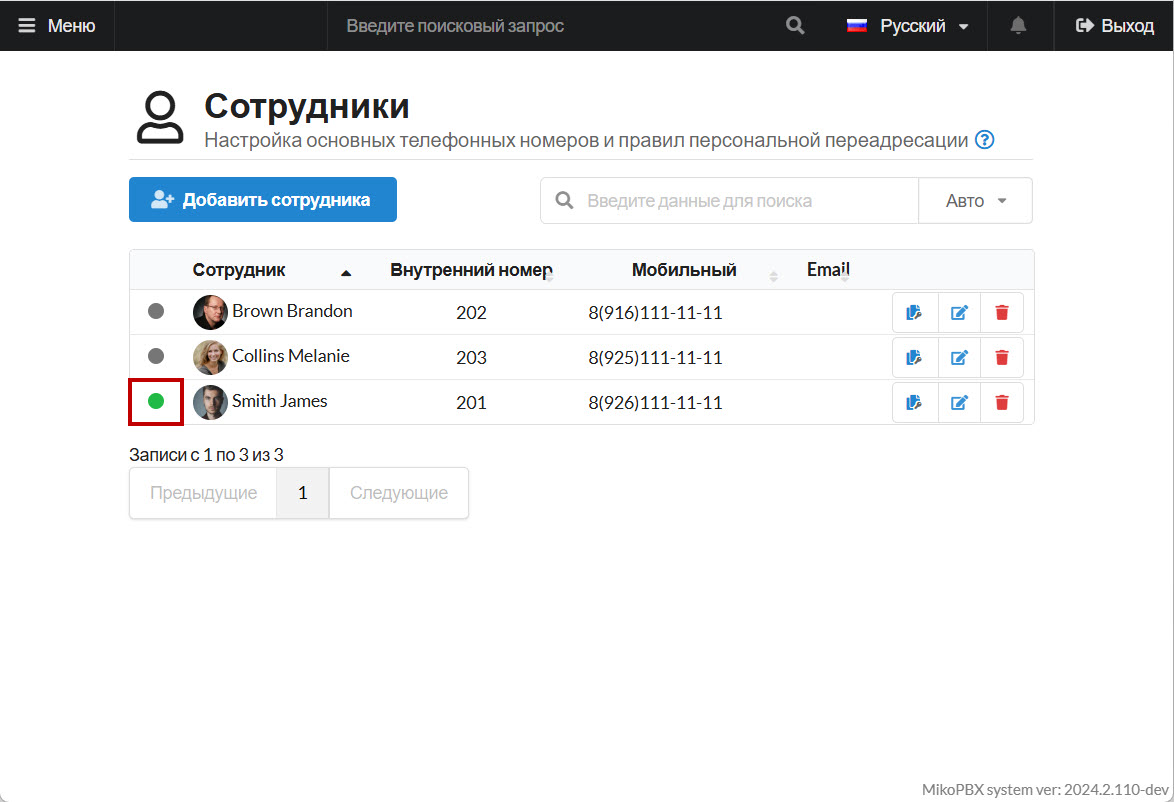
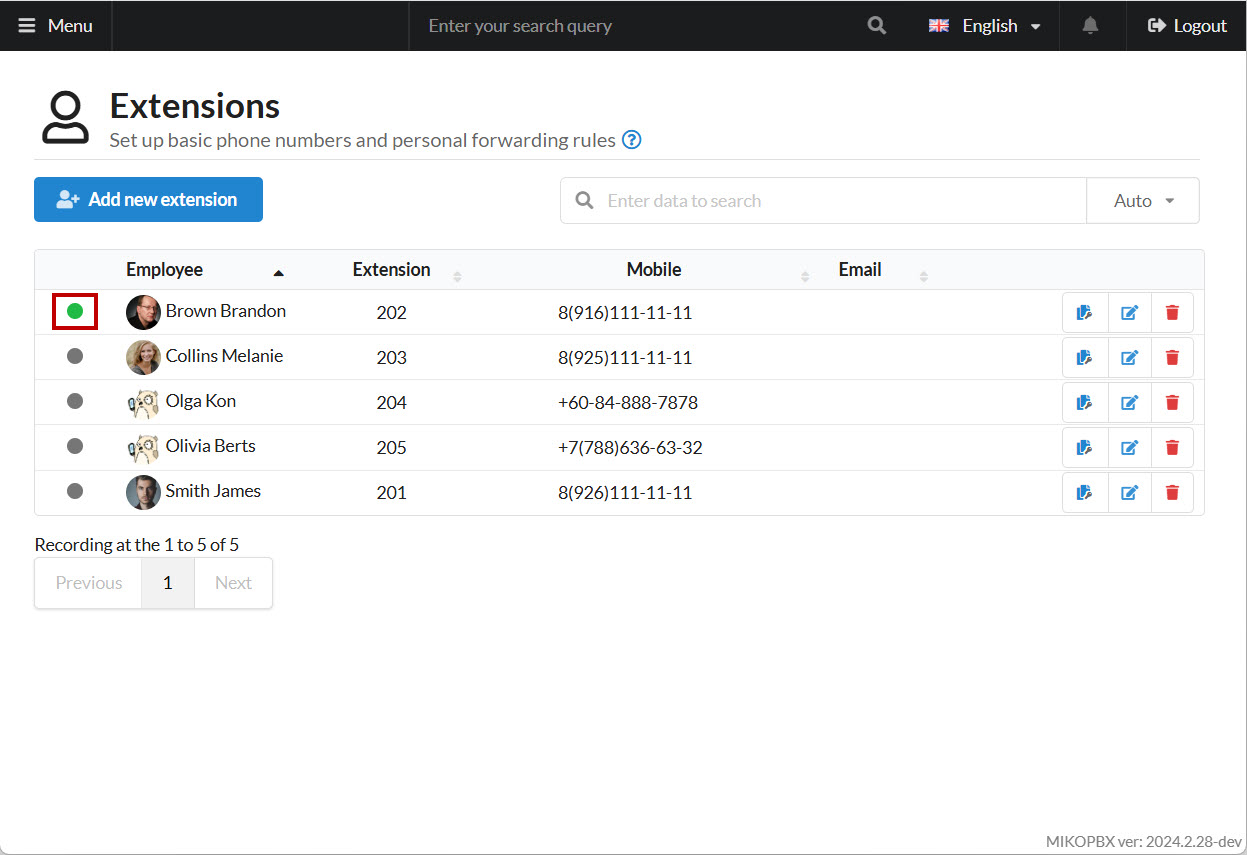
GITBOOK-778: No subject

diff --git a/faq/softphones/3cx-softphone.md b/faq/softphones/3cx-softphone.md
@@ -1,0 +1,41 @@
+---
+description: Инструкции по подключению софтфона 3CX Softphone
+---
+
+# 3CX Softphone
+
+**3CX** — это SIP софтфон, предназначенный для бизнеса, который обеспечивает голосовые и видеозвонки, а также поддержку многоканальных звонков и конференц-связи.&#x20;
+
+<figure><img src="../../.gitbook/assets/3cxSoftPhone.jpg" alt=""><figcaption><p>Интерфейс софтфона 3CX</p></figcaption></figure>
+
+1. Скачайте и установите софтфон с оффициального сайта ([ссылка](https://www.3cx.com/voip/softphone/)).
+
+<figure><img src="../../.gitbook/assets/mainpage.jpg" alt=""><figcaption><p>Стартовое окно</p></figcaption></figure>
+
+2. Добавьте новый SIP-аккаунт; для этого нажмите "**New**":
+
+<figure><img src="../../.gitbook/assets/newConnection.jpg" alt=""><figcaption><p>Добавление нового SIP-аккаунта</p></figcaption></figure>
+
+3. Далее укажите все необходимые данные для SIP-подключения:
+
+* **Account name** - произвольное
+* **CallerID** - имя сотрудника
+* **Extension** - внутренний номер сотрудника (Из карточки сотрудника)
+* **ID** - внутренний номер сотрудника (Из карточки сотрудника)
+* **Password** - пароль для SIP-подключения (Из карточки сотрудника)
+
+<figure><img src="../../.gitbook/assets/credentials.jpg" alt=""><figcaption><p>Данные для подключения</p></figcaption></figure>
+
+4. В разделе "**My location**", укажите IP-адрес Вашей MikoPBX. Если она расположена в одной локальной сети с софтфоном - выберите вариант "**I am in the office - local IP**", если вы хотите подключиться с помощью внешнего IP-адреса, выберите "**I am out of the office - external IP**"
+
+После заполнения этих данных, нажмите "**OK**".&#x20;
+
+<figure><img src="../../.gitbook/assets/myLocation.jpg" alt=""><figcaption><p>Раздел "My location"</p></figcaption></figure>
+
+5. Выберите добавленую учетную запись и нажмите "**OK**":
+
+<figure><img src="../../.gitbook/assets/connection.jpg" alt=""><figcaption><p>Выбор учетной записи</p></figcaption></figure>
+
+Произойдет соединение. Вы можете проверить его успешность по индикатору подключения сотрудника:
+
+<figure><img src="../../.gitbook/assets/successfulConnection.jpg" alt=""><figcaption><p>Успешное подключение!</p></figcaption></figure>

diff --git a/faq/softphones/groundwire.md b/faq/softphones/groundwire.md
@@ -42,7 +42,7 @@ description: Инструкции по подключению софтфона G
 
 Сохраните параметры. Произойдет соединение. По индикатору в разделе "Сотрудники" в MikoPBX, Вы можете убедиться, что оно было успешным.
 
-<figure><img src="../../.gitbook/assets/successfulConnection.jpg" alt=""><figcaption><p>Успешное SIP-подключение</p></figcaption></figure>
+<figure><img src="../../.gitbook/assets/successfulConnection (1).jpg" alt=""><figcaption><p>Успешное SIP-подключение</p></figcaption></figure>
 
 ## Настройка отслеживания статусов сотрудников
 

diff --git a/SUMMARY.md b/SUMMARY.md
@@ -198,6 +198,7 @@
   * [Telephone(MacOS)](faq/softphones/telephone-macos.md)
   * [Настройка WebRTC клиента SIPML5](faq/softphones/configuring-webrtc-client-sipml5.md)
   * [Softphone.pro](faq/softphones/softphone.pro.md)
+  * [3CX Softphone](faq/softphones/3cx-softphone.md)
   * [SIP.TG (Telegram)](https://wiki.mikopbx.ru/faq:siptg)
 * [Voip шлюзы](faq/voip-gateways/README.md)
   * [GoIP4](faq/voip-gateways/goip4/README.md)
